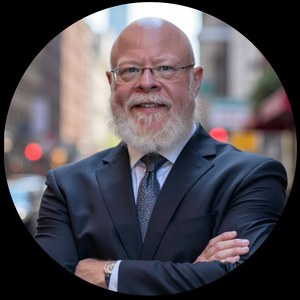
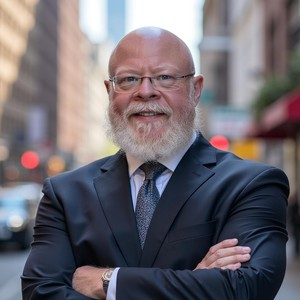
Update Ted's photos — new professional shot, full portrait on Founder page, square crop on Team

diff --git a/founder/index.html b/founder/index.html
@@ -95,16 +95,16 @@
 
     .photo-real img {
       width: 100%;
-      max-width: 300px;
+      max-width: 360px;
       height: auto;
-      border-radius: 50%;
+      border-radius: 3px;
       display: block;
     }
 
     @media (max-width: 760px) {
       .about-hero { grid-template-columns: 1fr; gap: 40px; }
       .photo-real { position: static; order: -1; }
-      .photo-real img { max-width: 200px; margin: 0 auto; }
+      .photo-real img { max-width: 240px; margin: 0 auto; }
       .about-section { grid-template-columns: 1fr; gap: 16px; }
     }
 
@@ -162,7 +162,7 @@
       <p class="about-body">Before decades in the C-suite, he started his career writing data communications device drivers for Unix in C at AT&amp;T Bell Labs. That is not a metaphor. That is a literal description of where he began — close to the metal, solving real problems, in one of the most demanding engineering environments ever assembled.</p>
         </div>
         <div class="photo-real">
-          <img src="/ted-cahall.jpg" alt="Ted Cahall" width="300" height="300">
+          <img src="/ted-cahall-founder.jpg" alt="Ted Cahall" width="300" height="300">
         </div>
       </div>
     </div>
